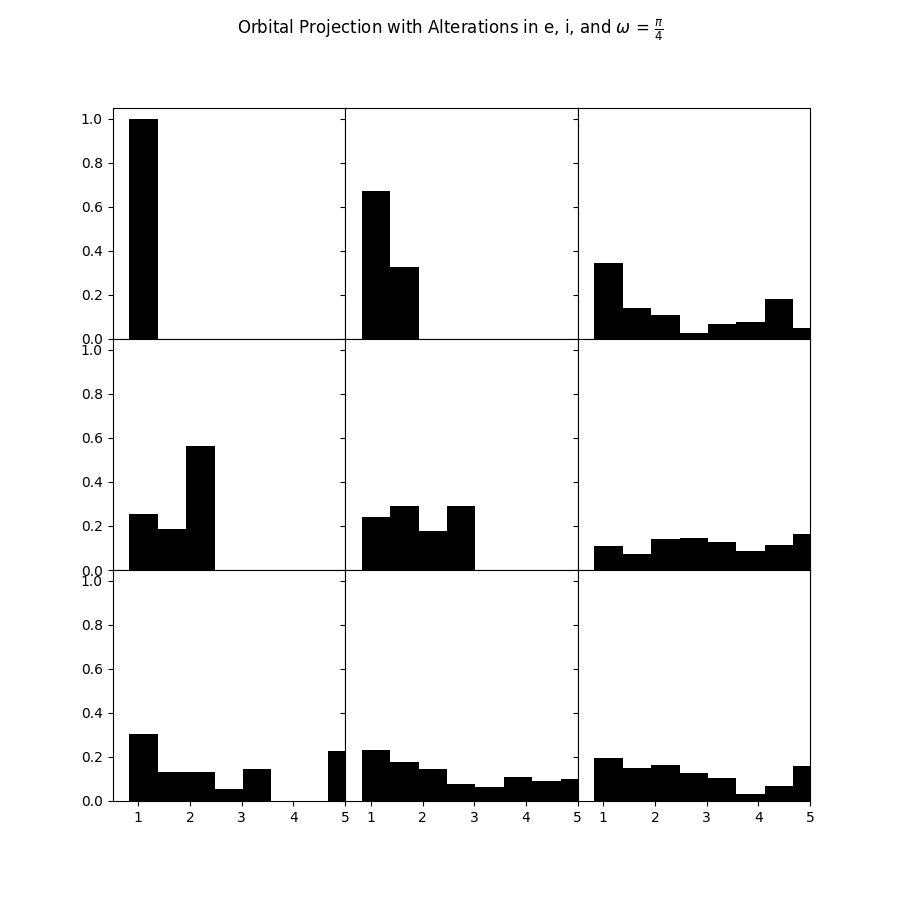
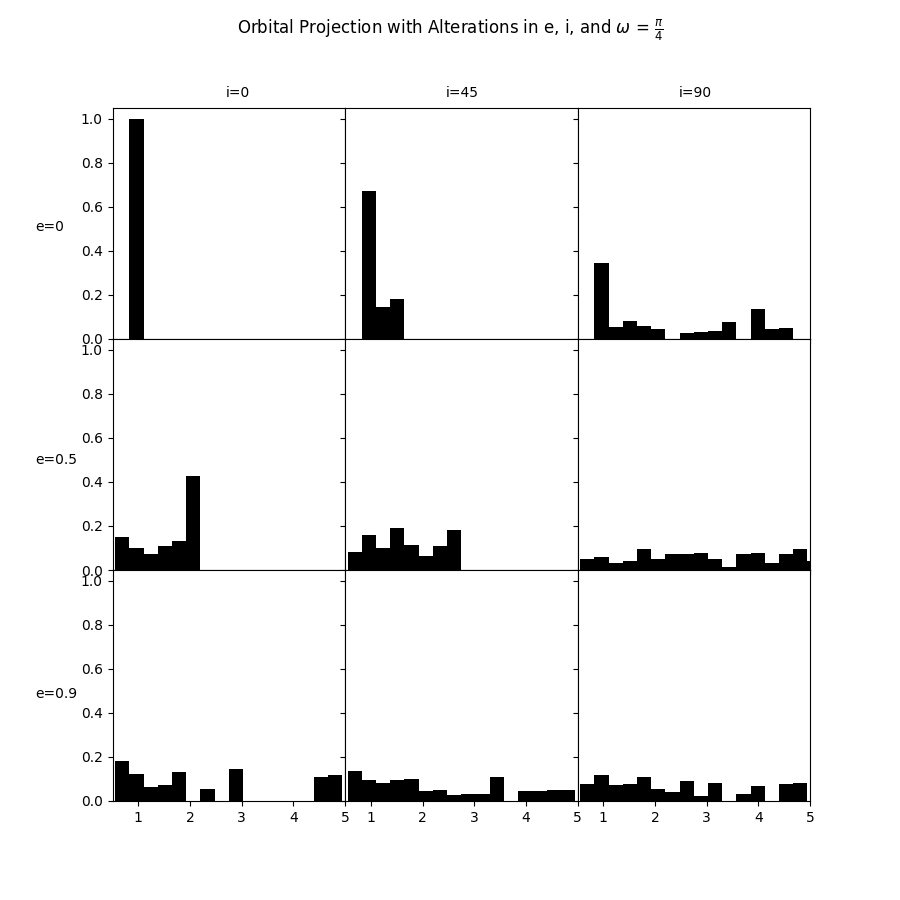
Prettied Up Plots and Increased Bin Numbers

diff --git a/Sep.py b/Sep.py
@@ -880,19 +880,19 @@ def MultiPlotHist(t0 = 0.0, a=1.0, w = 0.0, W = 0.0, i = 0.0, e = 0.0):
         tot_counts = np.ndarray.sum(iterarray)
         normlist = iterlist / tot_counts    
         
-        datahist, bins, patches = ax.hist(iterlist, align = "right",range = (0,5.5), linewidth = 6, stacked=True, histtype = "barstacked", weights = normlist.tolist())
+        datahist, bins, patches = ax.hist(iterlist, bins = 20,range = (0,5.5), linewidth = 6, stacked=True, histtype = "barstacked", weights = normlist.tolist())
         
         for patch in patches:
             for rect in patch:
                 rect.set_facecolor("black")
         ax.set_xlim(0.5,5)
     
-    # plt.text(-11.5,7.90,"e=0")
-    # plt.text(-11.5,3.90,"e=0.5")
-    # plt.text(-11.5,-0.1,"e=0.9")
-    # plt.text(-8,10.5,"i=0")
-    # plt.text(-4,10.5,"i=45")
-    # plt.text(-0.5,10.5,"i=90")
+    plt.text(-10,2.59,"e=0")
+    plt.text(-10,1.53,"e=0.5")
+    plt.text(-10,0.47,"e=0.9")
+    plt.text(-6.3,3.2,"i=0")
+    plt.text(-2.05,3.2,"i=45")
+    plt.text(2.45,3.2,"i=90")
     plt.savefig('/College Projects/Microlensing Separation/Figures/MultiHist_omega_pi_4.png')
     plt.show()
     return iterlist
